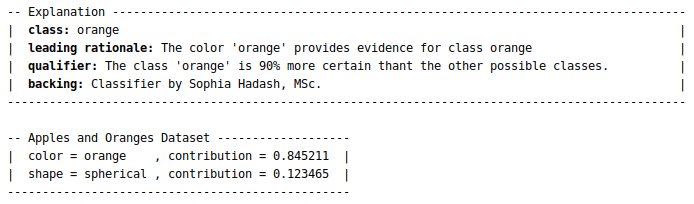
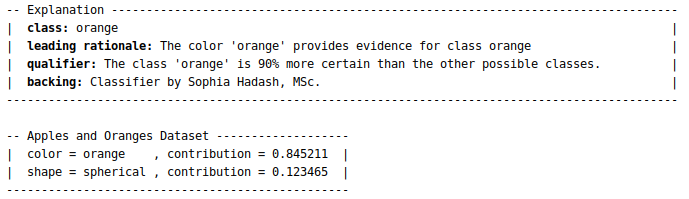
readme

diff --git a/argueview/typings.py b/argueview/typings.py
@@ -173,7 +173,7 @@ class Explanation(DummyUpdater):
         str_post = '  |'
         str_class = Color.BOLD + 'class: ' + Color.END + dclass
         str_lrat = Color.BOLD + 'leading rationale: ' + Color.END + lrat
-        str_qualifier = Color.BOLD + "qualifier: " + Color.END + "The class '" + dclass + "' is {:.0f}% more certain thant the other possible classes.".format(
+        str_qualifier = Color.BOLD + "qualifier: " + Color.END + "The class '" + dclass + "' is {:.0f}% more certain than the other possible classes.".format(
             100 * self.case.qualifier())
         str_backing = Color.BOLD + 'backing: ' + Color.END + self.backing
 

diff --git a/README.md b/README.md
@@ -2,7 +2,7 @@
 
 ArgueView is a tool for generating text-based presentations for machine-learning predictions and feature-importance based explanation tools. The tool makes use of Toulmin's model of argumentation for structuring the text-based explanations.
 
-Example presentation:
+Example:
 ![Example output](https://github.com/sophiahadash/argueview/blob/master/screenshots/scr1.png?raw=true)
 
 ### Including in your project
